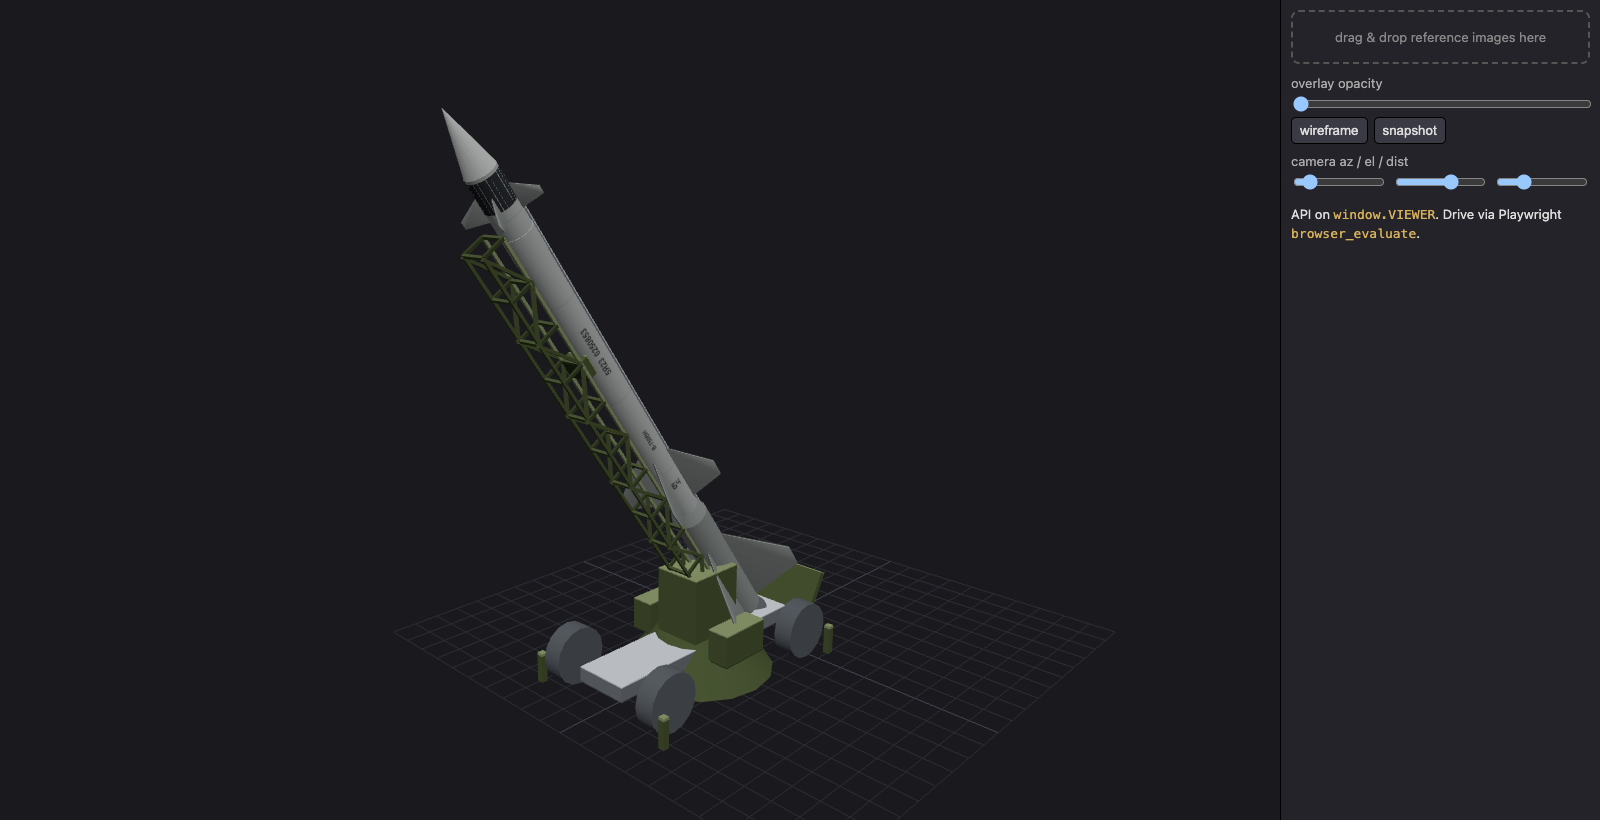
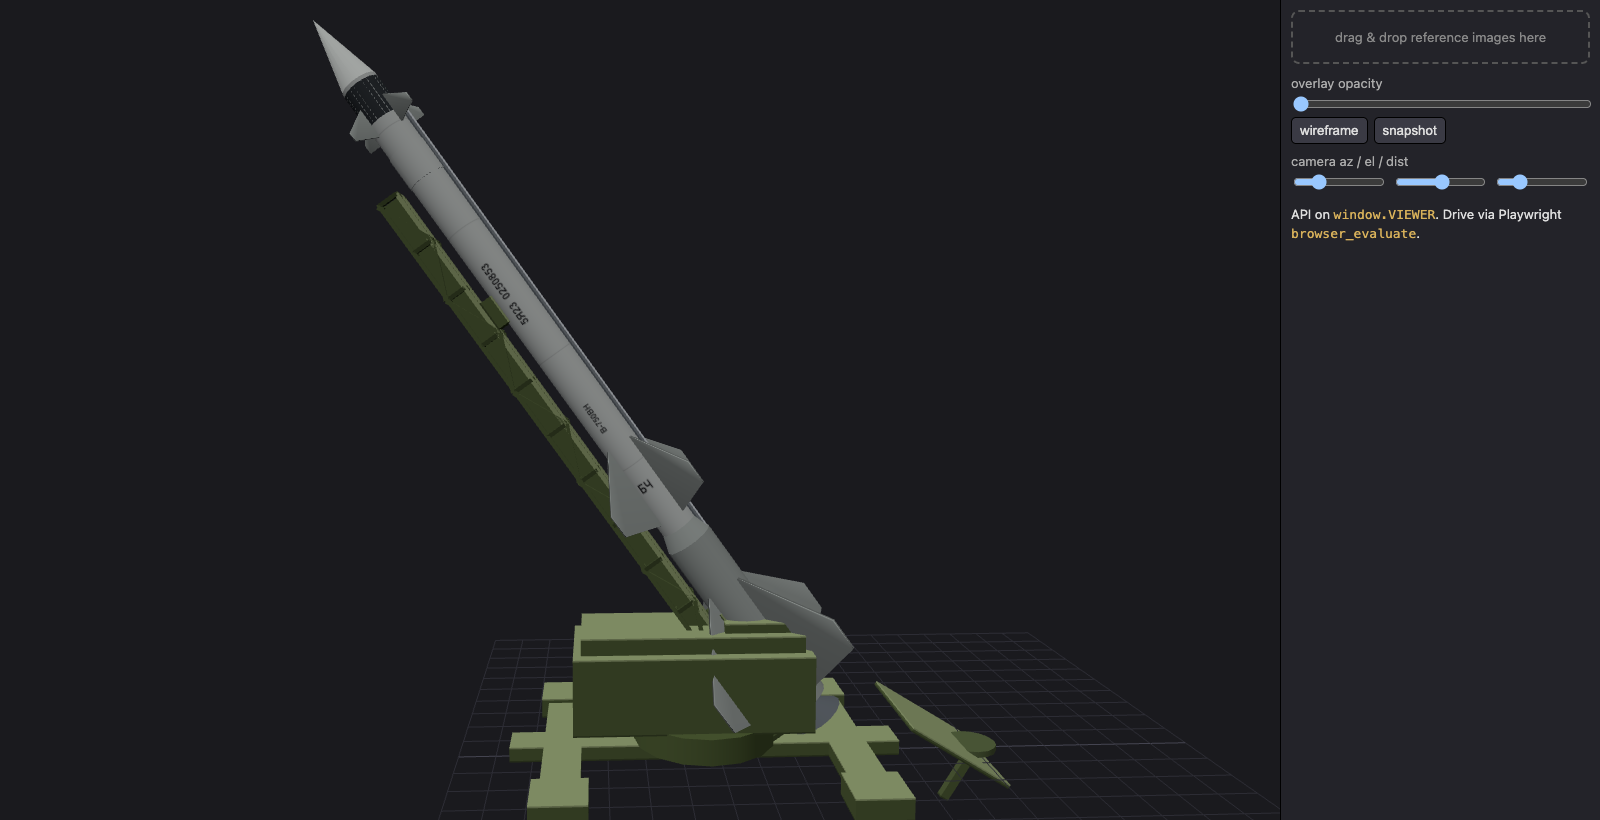
feat(modelgen): СМ-90 reshaped to references + NESTED rigs (animation-ready)
Reference-driven reshape (user sent 6 photos — the old version 'didn't look like it'):
- big equipment HOUSING box (ЭСП-90 cabinet) as the body, on a conical turntable
- X CROSS ground-base with pad feet (firing config — bogies detached, no wheels)
- flatter open-lattice launch beam (the missile rests on top, fins hang free)
- большой газоотражатель = a big flat blast blade on a strut + ground foot

Interpreter: rigs now NEST — a rig may have a , hanging under the parent's
container. So the launcher is RIGGED for animation along its real axes:
  azimuth (Y, whole assembly on the fixed cross-base) → elevation (X, beam+missile) →
  missile (Z slide / launch); deflector (X) under azimuth.
Each node carries pivot+axis+type+range in userData.rig. Verified: driving
azimuth.rotation.y traverses the whole assembly; elevation.rotation.x pitches the
beam+missile; the cross-base stays grounded. 28/28 tests.

Changed region(s): [[0.1875, 0.0305, 0.625, 1.0], [0.8125, 0.2134, 0.8438, 0.2439]]

diff --git a/src/props/voxel-interp.js b/src/props/voxel-interp.js
@@ -14,48 +14,55 @@ export function buildSpec(spec) {
   const root = new THREE.Group();
   root.name = plan.id;
 
-  const builders = new Map();   // rigKey → MeshBuilder (merged box/cylinder parts)
-  const extras = new Map();     // rigKey → [Object3D] (ops that return their OWN mesh, e.g. textured)
+  // 1) run operators → merged builder + standalone meshes per rig key
+  const builders = new Map(), extras = new Map();
+  const ensure = (key) => { if (!builders.has(key)) { builders.set(key, new MeshBuilder()); extras.set(key, []); } };
+  ensure('__base');
   for (const o of plan.ops) {
     const fn = OPS[o.op];
     if (!fn) throw new Error(`no voxel impl for operator '${o.op}'`);
     const key = o.rig || '__base';
-    if (!builders.has(key)) { builders.set(key, new MeshBuilder()); extras.set(key, []); }
+    ensure(key);
     const ret = fn(builders.get(key), o.args, o.tones, o.origin);
     if (ret && ret.isObject3D) extras.get(key).push(ret);   // a textured/standalone-mesh operator
   }
 
+  // 2) a group per rig — ANY rig with a `pivot` gets an outer (named, carries rotation about the
+  // pivot) + an inner container offset by −pivot, so an animator can just set outer.rotation[axis]
+  // and it pivots correctly. `pose` is the static display angle (default 0 = neutral, ready to
+  // animate). Rigs nest: a rig with `parent` hangs under the parent's container (azimuth → elevation
+  // → missile), so one parent rotation carries everything below it. userData.rig keeps the contract.
   const rigByName = new Map(plan.rig.map((r) => [r.name, r]));
+  for (const r of plan.rig) ensure(r.name);   // a rig may be a pure container (children only)
+  const containers = new Map([['__base', root]]), outers = new Map();
   for (const key of builders.keys()) {
-    const rig = key === '__base' ? null : rigByName.get(key);
-    const posed = rig && Array.isArray(rig.pivot) && rig.pose != null;
-    // `outer` = the named rig group (carries the STATIC pose: rotate `pose` rad about `axis`).
-    // `container` = where meshes actually go; for a posed rig it is offset by −pivot so the
-    // outer rotation pivots about `pivot` (e.g. erecting a missile on its trunnion). Parts are
-    // built at absolute coords; the −pivot container makes the net transform a rotation about pivot.
-    let outer = root, container = root;
-    if (key !== '__base') {
-      outer = new THREE.Group(); outer.name = key;
-      if (rig) outer.userData.rig = rig;
-      container = outer;
-      if (posed) {
-        const [px, py, pz] = rig.pivot;
-        outer.position.set(px, py, pz);
-        outer.rotation[rig.axis || 'x'] = rig.pose;
-        container = new THREE.Group(); container.position.set(-px, -py, -pz); outer.add(container);
-      }
-      root.add(outer);
+    if (key === '__base') continue;
+    const rig = rigByName.get(key);
+    const outer = new THREE.Group(); outer.name = key;
+    if (rig) outer.userData.rig = rig;
+    let container = outer;
+    if (rig && Array.isArray(rig.pivot)) {
+      const [px, py, pz] = rig.pivot;
+      outer.position.set(px, py, pz);
+      outer.rotation[rig.axis || 'x'] = rig.pose ?? 0;
+      container = new THREE.Group(); container.position.set(-px, -py, -pz); outer.add(container);
     }
-    const b = builders.get(key);
-    if (b.pos.length) {                       // merged vertex-colour mesh (box/cylinder parts)
+    outers.set(key, outer); containers.set(key, container);
+  }
+  for (const key of outers.keys()) {          // wire nesting: child.outer → parent.container (or root)
+    const rig = rigByName.get(key);
+    (rig && rig.parent && containers.has(rig.parent) ? containers.get(rig.parent) : root).add(outers.get(key));
+  }
+
+  // 3) attach each rig's meshes into its container
+  for (const [key, b] of builders) {
+    const container = containers.get(key);
+    if (b.pos.length) {
       const mesh = new THREE.Mesh(b.build(), voxelMaterial());
       mesh.castShadow = true; mesh.receiveShadow = true;
       container.add(mesh);
     }
-    for (const ex of extras.get(key)) {       // standalone meshes (own material, e.g. CanvasTexture)
-      ex.castShadow = true; ex.receiveShadow = true;
-      container.add(ex);
-    }
+    for (const ex of extras.get(key)) { ex.castShadow = true; ex.receiveShadow = true; container.add(ex); }
   }
   root.userData.footprint = plan.footprint;
   return root;
